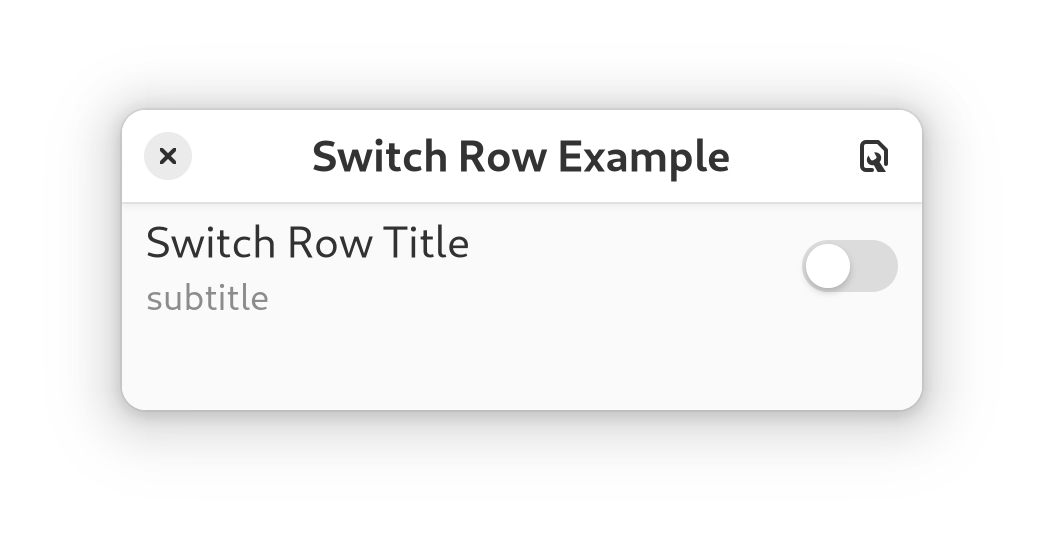
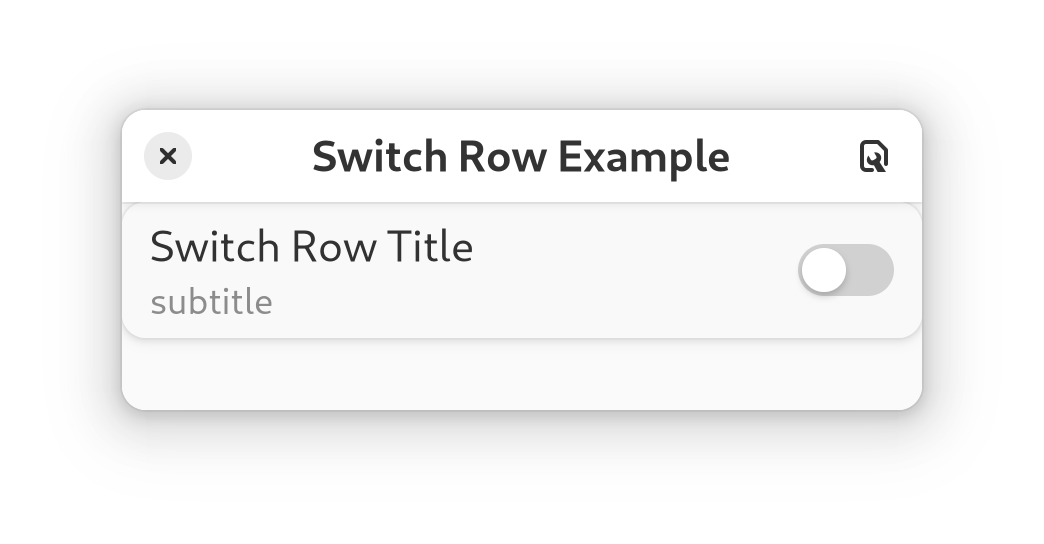
Move example over to PreferencesGroup

Changed region(s): [[0.1226, 0.5312, 0.8582, 0.625], [0.1226, 0.4062, 0.4598, 0.5], [0.7663, 0.4375, 0.8582, 0.5625]]

diff --git a/examples/README.md b/examples/README.md
@@ -242,7 +242,7 @@ The `widgets` directory contains examples for how to use different widgets.
   </tr>
   <tr>
     <td><a href="https://github.com/can-lehmann/owlkettle/blob/main/examples/widgets/adw/switch_row.nim">Switch Row</a></td>
-    <td><img alt="Switch Row" src="../docs/assets/examples/switch_row.png" width="922px"></td>
+    <td><img alt="Switch Row" src="../docs/assets/examples/switch_row.png" width="522px"></td>
   </tr>
   <tr>
     <td><a href="https://github.com/can-lehmann/owlkettle/blob/main/examples/widgets/adw/window_title.nim">Window Title</a></td>

diff --git a/docs/widgets_adwaita.md b/docs/widgets_adwaita.md
@@ -450,6 +450,8 @@ renderable SwitchRow of ActionRow
 ###### Events
 
 - activated: `proc (active: bool)`
+
+
 ## Banner
 
 ```nim
